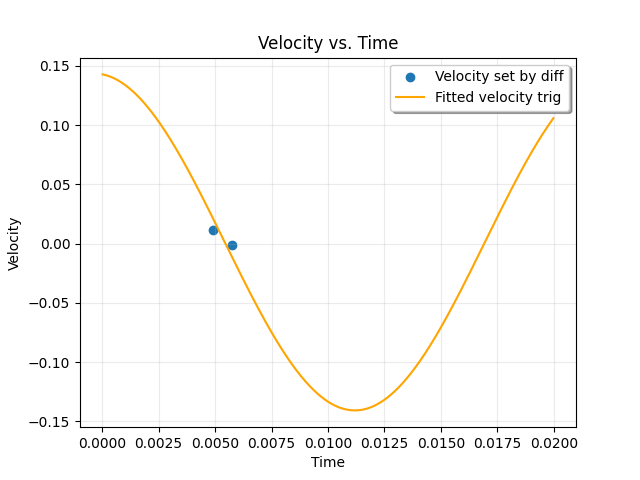
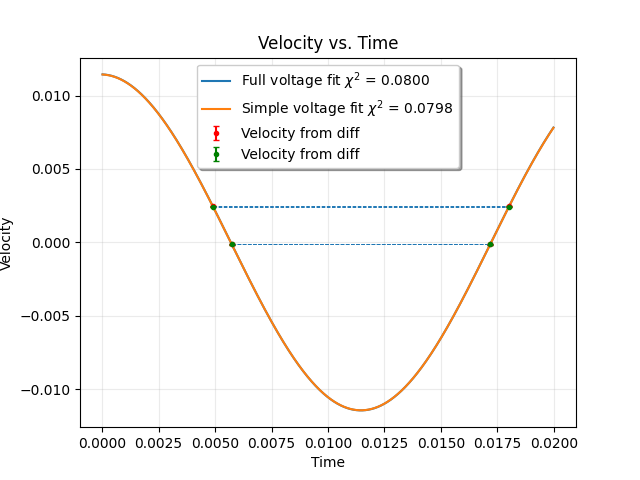
updated fits

diff --git a/plot_data.py b/plot_data.py
@@ -22,7 +22,7 @@ time_arr, total_count_arr = np.loadtxt(folder_name + highest_numbered_file, deli
 
 # Plot data to check where fits need to happen
 fig1, ax1 = plt.subplots()
-ax1.scatter(time_arr, total_count_arr, label='Raw counts', linewidths=0.5)
+ax1.scatter(time_arr, total_count_arr, label='Raw counts', marker='.')
 ax1.set_title('Counts vs. Time')
 ax1.set_yscale("linear")
 ax1.set_xscale("linear")
@@ -85,36 +85,61 @@ fig2.show()
 
 # Get velocity for peak through difference
 num_distinct_peaks = int(number_peaks/2)
-amp, ang_freq, phase_transducer, shift = scope_fit.cos_params_from_data()
+(full_amp, full_ang_freq, full_phase, full_shift), (simple_amp, simple_ang_freq)  = scope_fit.cos_params_from_data(plot=False)
 velocity_voltage_ratio=0.080523086265892;
-peak_velocity_matrix = np.zeros((num_distinct_peaks, 3))
+peak_velocity_matrix = np.zeros((num_distinct_peaks, 5))
+print('Opt param matrix[0]: \n{}'.format(opt_param_matrix))
 for index in range(num_distinct_peaks):
   left_peak_time = opt_param_matrix[index][0]
-  right_peak_time = opt_param_matrix[-index][0]
+  left_peak_uncertain = np.sqrt(np.diag(cov_matrix[index]))[2]
+  right_peak_time = opt_param_matrix[-index - 1][0]
+  right_peak_uncertain = np.sqrt(np.diag(cov_matrix[-index]))[2]
+  # print('Left peak time: {}, right peak time: {}'.format(left_peak_time, right_peak_time))
   time_diff = right_peak_time - left_peak_time
-  peak_voltage = scope_fit.voltage_from_time_diff(time_diff, amp, ang_freq)
-  peak_velocity = peak_voltage * velocity_voltage_ratio
-  peak_velocity_matrix[index] = [left_peak_time, peak_velocity, right_peak_time]
+  full_voltage_from_diff = scope_fit.voltage_from_time_diff(time_diff, full_amp, full_ang_freq)
+  simple_voltage_from_diff = scope_fit.voltage_from_time_diff(time_diff, simple_amp, simple_ang_freq) 
+  # Using the peak for the two fits
+  full_peak_velocity = full_voltage_from_diff * velocity_voltage_ratio
+  simple_peak_velocity = simple_voltage_from_diff * velocity_voltage_ratio
+  # print('velocity_uncertain: {:.2f}'.format(right_peak_uncertain + left_peak_uncertain))
+  peak_velocity_matrix[index] = [full_peak_velocity, simple_peak_velocity, left_peak_time, right_peak_time, left_peak_uncertain+right_peak_uncertain]
 
-# Fit the phase of trig function to these velocities
-def velocity(time, phase_velocity):
-  return amp * np.cos(ang_freq * time + phase_transducer + phase_velocity) + shift
+# Fit the full and simple trig function to these velocities
+time_points = np.hstack((peak_velocity_matrix[:, 2], peak_velocity_matrix[:, 3]))
+full_velocity_points = np.hstack((peak_velocity_matrix[:, 0], peak_velocity_matrix[:, 0]))
+simple_velocity_points = np.hstack((peak_velocity_matrix[:, 1], peak_velocity_matrix[:, 1]))
+velocity_error = np.hstack((peak_velocity_matrix[:, 4], peak_velocity_matrix[:, 4]))
 
-phase_change, _ = optimize.curve_fit(velocity, peak_velocity_matrix[:, 0], peak_velocity_matrix[:, 1])
+def full_velocity(time, phase, shift):
+  return velocity_voltage_ratio * full_amp * np.cos(full_ang_freq * time + phase) + shift
 
-print('Phase change: {}'.format(*phase_change))
-print('Velocity at time 0: {}'.format(velocity(0, *phase_change)))
-print(peak_velocity_matrix[0, 1])
-print(peak_velocity_matrix[1, 1])
+full_param_list, _ = optimize.curve_fit(full_velocity, time_points, full_velocity_points, p0=[0, 0])
+full_chi2 = np.sum(np.square(np.divide(np.subtract(full_velocity_points, full_velocity(time_points, *full_param_list)), velocity_error)))
+
+def simple_velocity(time, phase):
+  return velocity_voltage_ratio * simple_amp * np.cos(simple_ang_freq * time + phase)
+
+simple_phase, _ = optimize.curve_fit(simple_velocity, time_points, simple_velocity_points, p0=[-0.1], sigma=velocity_error)
+simple_chi2 = np.sum(np.square(np.divide(np.subtract(simple_velocity_points, simple_velocity(time_points, *simple_phase)), velocity_error)))
+simple_chi2_no_phase = np.sum(np.square(np.divide(np.subtract(simple_velocity_points, simple_velocity(time_points, 0)), velocity_error)))
+
+print('Simple phase: {}\nVelocity (phase, shift): {}'.format(*simple_phase, full_param_list))
+print('Simple chi2: {}\n simple chi2 no phase: {}\nVel chi2: {}'.format(simple_chi2, simple_chi2_no_phase, full_chi2))
 
 # Check fit to these points
 fig3, ax3 = plt.subplots()
-ax3.scatter(peak_velocity_matrix[:, 0], peak_velocity_matrix[:, 1], label='Velocity set by diff')
+
+# Plot the velocity-time points given by the difference function
+ax3.errorbar(x=time_points, y=full_velocity_points, yerr=velocity_error, label='Velocity from diff', color='red', fmt='.', capsize=2)
+ax3.hlines(peak_velocity_matrix[:, 0], peak_velocity_matrix[:, 2], peak_velocity_matrix[:, 3], ls='dashed', lw=0.7)
+ax3.errorbar(x=time_points, y=simple_velocity_points, yerr=velocity_error, label='Velocity from diff', color='green', fmt='.', capsize=2)
+ax3.hlines(peak_velocity_matrix[:, 1], peak_velocity_matrix[:, 2], peak_velocity_matrix[:, 3], ls='dashed', lw=0.7)
+
+# Plot the functions
 time_points = np.linspace(min(time_arr), max(time_arr), 10000)
-ax3.plot(time_points, velocity(time_points, *phase_change), label='Fitted velocity trig', color='orange')
-# for index in range(num_distinct_peaks):
-# ax3.hlines(peak_velocity_matrix[0, 1], peak_velocity_matrix[0, 0], peak_velocity_matrix[0, 2], ls='dashed', label='Diff line 1')
-# ax3.hlines(peak_velocity_matrix[1, 1], peak_velocity_matrix[1, 0], peak_velocity_matrix[1, 2], ls='dashed', label='Diff line 2', color='red', lw=10)
+ax3.plot(time_points, full_velocity(time_points, *full_param_list), label=r'Full voltage fit $\chi^2$ = {:.4f}'.format(full_chi2))
+ax3.plot(time_points, simple_velocity(time_points, simple_phase), label=r'Simple voltage fit $\chi^2$ = {:.4f}'.format(simple_chi2))
+
 ax3.set_title('Velocity vs. Time')
 ax3.set_yscale("linear")
 ax3.set_xscale("linear")
@@ -127,6 +152,10 @@ fig3.savefig('{}/{}_vel_phase_check.png'.format(folder_name[:-1], folder_name[:-
 fig3.show()
 input("hit[enter] to close all plots")
 plt.close('all')
+
+# Map velocity to energy
+
+
 
 exit()
 

diff --git a/scope_fit_11_22/scope_fit.py b/scope_fit_11_22/scope_fit.py
@@ -8,21 +8,34 @@ def cos_params_from_data(plot=False):
   time_arr, ch1_arr, ch2_arr = np.loadtxt(data_path, dtype=float, skiprows=16, delimiter=',', usecols=[0, 1, 3], unpack=True)
   def cos_function(data, amp, ang_freq, phase, shift):
     return amp * np.cos(ang_freq * data + phase) + shift
-  popt, _ = optimize.curve_fit(cos_function, time_arr, ch2_arr, p0=[0.2, 300 , 0, 0])
-  print('Velocity fit: \n amp: {} \n ang_freq: {}\n phase: {} \n shift: {} \n freq: {}'.format(*popt, popt[1]/(2 * np.pi)))
+  def simple_cos(data, amp, ang_freq):
+    return amp * np.cos(ang_freq * data)
+  full_popt, _ = optimize.curve_fit(cos_function, time_arr, ch2_arr, p0=[0.2, 300 , -1, 0])
+  simple_popt, _ = optimize.curve_fit(simple_cos, time_arr, ch2_arr, p0=[0.2, 270])
   if plot:
-    
+    print('Velocity fit: \n amp: {} \n ang_freq: {}\n phase: {} \n shift: {} \n freq: {}'.format(*full_popt, full_popt[1]/(2 * np.pi)))
+    print('Simple velocity fit: \n amp: {} \n ang_freq: {} \n freq: {}'.format(*simple_popt, simple_popt[1]/(2 * np.pi)))
     fig, ax = plt.subplots()
-    ax.plot(time_arr, ch1_arr * 0.1)
-    ax.plot(time_arr, ch2_arr)
+    # ax.plot(time_arr, ch1_arr * 0.1)
+    ax.scatter(time_arr, ch2_arr, marker='.')
     time_spaced = np.linspace(min(time_arr), max(time_arr), 10000)
-    ax.plot(time_spaced, cos_function(time_spaced, *popt), lw = '0.8')
+    ax.plot(time_spaced, cos_function(time_spaced, *full_popt), lw = '0.8', color='orange', label='Full cos')
+    ax.plot(time_spaced, simple_cos(time_spaced, *simple_popt), color='red', label='Simple cos')
+    ax.legend(loc='upper left')
+    # print(cos_function(0, *popt))
     fig.show()
     input("hit [enter] to close plots")
     plt.close(fig)
     
-  return popt
+  return (full_popt, simple_popt)
 
 def voltage_from_time_diff(time_diff, amp, ang_freq):
-  return amp * np.cos(0.5 * (2 * np.pi - ang_freq * time_diff))
+  voltage = amp * np.cos(0.5 * (2 * np.pi - ang_freq * time_diff))
+
+  fig, ax = plt.subplots()
+
+  ax.plot()
+
+
+  return voltage
 
